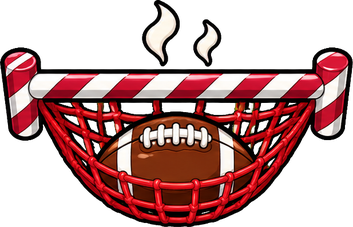
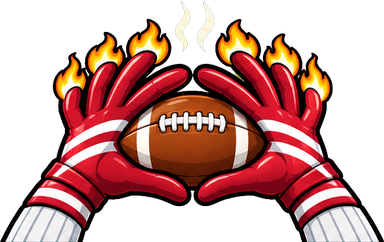
Football: receiver's gloved hands making the diamond catch replace the kicking nets
Claude-Session: https://claude.ai/code/session_01LSUbyeSddYBq37H8P9swa2

diff --git a/game.html b/game.html
@@ -2726,12 +2726,12 @@ var SPORTS = {
       'Alley-Oop Alley', 'Free Throw Line', 'Three-Point Land', 'Full-Court Press', 'Fadeaway', 'Bank Shot Boulevard', 'Downtown', 'Overtime',
       'Buzzer Beater', 'Nothing but Net', 'Rim Rockers', 'Sixth Man', 'Rivalry Night', 'Conference Clash', 'Senior Night', 'Sweet Sixteen',
       'Elite Eight', 'Final Four', 'Championship Night', 'Net Cutting', 'Trophy Lift', 'Victory Lap', 'Legends Night', 'Hall of Fame'] },
-  football: { id: 'football', name: 'Football', icon: '🏈', sub: 'Drop the ball in the kicking nets', ballWord: 'football', targets: 'nets', tip: 'Drop it in the net!',
-    score: 'IT’S GOOD!', hot: 'HOT KICK!', fire: 'FIRE BALL', smash: 'GLOVE SMASHED!', count: 'Kicks', countLong: 'Kicks Made', kitchen: 'gridiron',
+  football: { id: 'football', name: 'Football', icon: '🏈', sub: 'Drop the ball into the receiver’s hands', ballWord: 'football', targets: 'hands', tip: 'Drop it in the hands!',
+    score: 'CAUGHT IT!', hot: 'HOT HANDS!', fire: 'FIRE BALL', smash: 'GLOVE SMASHED!', count: 'Catches', countLong: 'Catches Made', kitchen: 'gridiron',
     snd: 'kick', whistle: true, spin: 0.1,
     puff: ['rgba(250,252,245,0.9)', 'rgba(150,205,110,0.85)', 'rgba(60,130,50,0.3)', '#FFFFFF', '#4CAF50'],
-    skin: { fly: [-24, -15, 48, 30], bun: [-44.1, -39.8, 88.2, 44.8], grill: [-44.1, -51.8, 88.2, 56.8] },
-    tg: { goal: [-44, -26.5, 88, 44.5], 'goal-ball': [-44.1, -26.8, 88.2, 44.8], 'goal-hot': [-44, -26.5, 88, 44.5], 'goal-hot-ball': [-44.1, -38.8, 88.2, 56.8] },
+    skin: { fly: [-24, -15, 48, 30], bun: [-48.1, -45.2, 96.2, 56], grill: [-48, -49.7, 96, 60.5] },
+    tg: { goal: [-48, -27.7, 96, 51.5], 'goal-ball': [-48.1, -32.2, 96.2, 56], 'goal-hot': [-48, -33.2, 96, 57], 'goal-hot-ball': [-48, -36.7, 96, 60.5] },
     quips: ['"It’s up... and it’s good!"', '"Wide right? Not today."', '"Every miss is the next drive."', '"Kick it like you mean it."'].concat(SPORT_CHEER),
     stages: ['Coin Toss', 'Kickoff', 'Kyle’s Kickers', 'Stacia’s Specials', 'Training Camp', 'Two-Minute Drill', 'Home Opener', 'Homecoming',
       'Tailgate Town', 'Red Zone', 'Hail Mary', 'Onside Kick', 'Fourth and Long', 'Blitz Alley', 'End Zone Dance', 'Overtime',

diff --git a/tools/make_sports.py b/tools/make_sports.py
@@ -14,7 +14,7 @@ SPORTS = {
     # ball: game size of the flying ball (w, h). target: game width of the goal picture and where its opening is
     # (fraction of the empty target's height from the top; None: the bottom sits where the bun's bottom is, like Soccer)
     'basketball': dict(key='green', venue='arena', ball=(38, 38), target=(80, 0.36)),
-    'football': dict(key='green', venue='gridiron', ball=(48, 30), target=(88, None)),
+    'football': dict(key='green', venue='gridiron', ball=(48, 30), target=(96, 0.42)),
     'waterpolo': dict(key='green', venue='pool', ball=(38, 38), target=(84, None)),
     'golf': dict(key='magenta', venue=None, ball=(32, 32), target=(88, 0.62)),
 }
